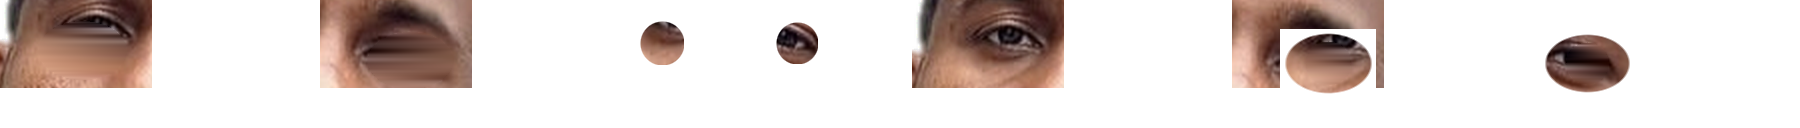
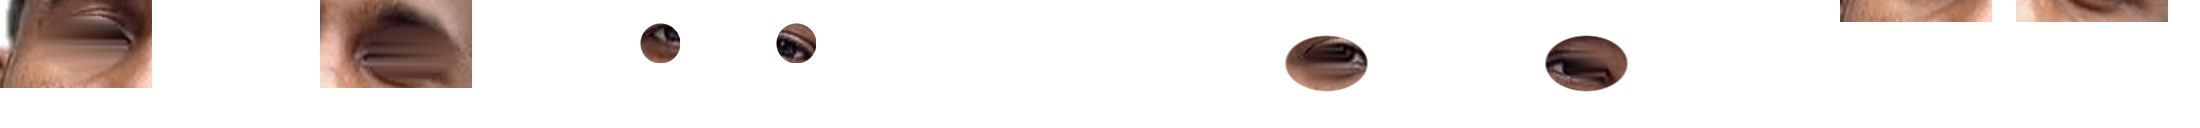
Gaze lab v2 - corrected eye geometry and rebuilt blink

diff --git a/docs/gaze-lab/index.html b/docs/gaze-lab/index.html
@@ -53,7 +53,7 @@
 </div>
 <script>
 "use strict";
-const META = {"S": 2, "W": 681, "H": 570, "layout": {"R_plate": {"x": 0, "y": 0, "w": 76, "h": 44}, "R_disc": {"x": 320, "y": 10.75, "w": 22.5, "h": 22.5, "r": 11.25}, "R_lid": {"x": 456, "y": 0, "w": 76, "h": 44}, "L_plate": {"x": 160, "y": 0, "w": 76, "h": 44}, "L_disc": {"x": 388, "y": 11.25, "w": 21.5, "h": 21.5, "r": 10.75}, "L_lid": {"x": 616, "y": 0, "w": 76, "h": 44}, "R_ball": {"x": 640, "y": 14.8, "w": 48.0, "h": 34.4}, "L_ball": {"x": 770, "y": 15.3, "w": 47.0, "h": 33.4}}, "travel": [10.0, 3.2], "eyes": [{"name": "R", "icx": 348, "icy": 166, "acx": 346, "acy": 163, "arx": 18, "ary": 8, "bx": 307, "by": 141, "iris_r": 10.5}, {"name": "L", "icx": 430, "icy": 168, "acx": 428, "acy": 163, "arx": 23, "ary": 9, "bx": 385, "by": 138, "iris_r": 10.0}]};
+const META = {"S": 2, "W": 681, "H": 570, "layout": {"R_plate": {"x": 0, "y": 0, "w": 76, "h": 44}, "R_disc": {"x": 320, "y": 11.75, "w": 20.5, "h": 20.5, "r": 10.25}, "R_ball": {"x": 640, "y": 15.8, "w": 46.0, "h": 32.4}, "R_lidstrip": {"x": 920, "y": 0, "w": 76, "h": 11}, "L_plate": {"x": 160, "y": 0, "w": 76, "h": 44}, "L_disc": {"x": 388, "y": 11.75, "w": 20.5, "h": 20.5, "r": 10.25}, "L_ball": {"x": 770, "y": 15.8, "w": 46.0, "h": 32.4}, "L_lidstrip": {"x": 1008, "y": 0, "w": 76, "h": 11}}, "travel": [10.0, 3.2], "eyes": [{"name": "R", "icx": 348, "icy": 159, "acx": 347, "acy": 159, "arx": 18, "ary": 9, "bx": 307, "by": 138, "iris_r": 9.5}, {"name": "L", "icx": 430, "icy": 163, "acx": 429, "acy": 163, "arx": 22, "ary": 9.5, "bx": 385, "by": 136, "iris_r": 9.5}]};
 const S = META.S, EYES = META.eyes, LAY = META.layout;
 const cv = document.getElementById('eyes'), ctx = cv.getContext('2d');
 const stack = document.getElementById('stack');
@@ -125,13 +125,15 @@ function drawEye(e, gx, gy, blinkCov) {
   const dx = (e.icx + gx - dr) * S, dy = (e.icy + gy - dr) * S;
   ctx.drawImage(sheet, ds[0], ds[1], ds[2], ds[3], dx, dy, ds[2], ds[3]);
   if (blinkCov > 0.001) {
-    const ld = sprite(e.name + '_lid');
+    const ls = sprite(e.name + '_lidstrip');
+    const topY = (e.acy - e.ary) * S, destH = blinkCov * 2 * e.ary * S;
     ctx.save();
     ctx.beginPath();
     ctx.ellipse(e.acx * S, e.acy * S, (e.arx - 1) * S, (e.ary - 0.5) * S, 0, 0, Math.PI * 2);
     ctx.clip();
-    const slide = (1 - blinkCov) * (2 * e.ary + 4);
-    ctx.drawImage(sheet, ld[0], ld[1], ld[2], ld[3], bx, by - slide * S, ld[2], ld[3]);
+    ctx.translate(0, 2 * topY + destH);
+    ctx.scale(1, -1);
+    ctx.drawImage(sheet, ls[0], ls[1], ls[2], ls[3], bx, topY, ls[2], destH);
     ctx.restore();
   }
 }
